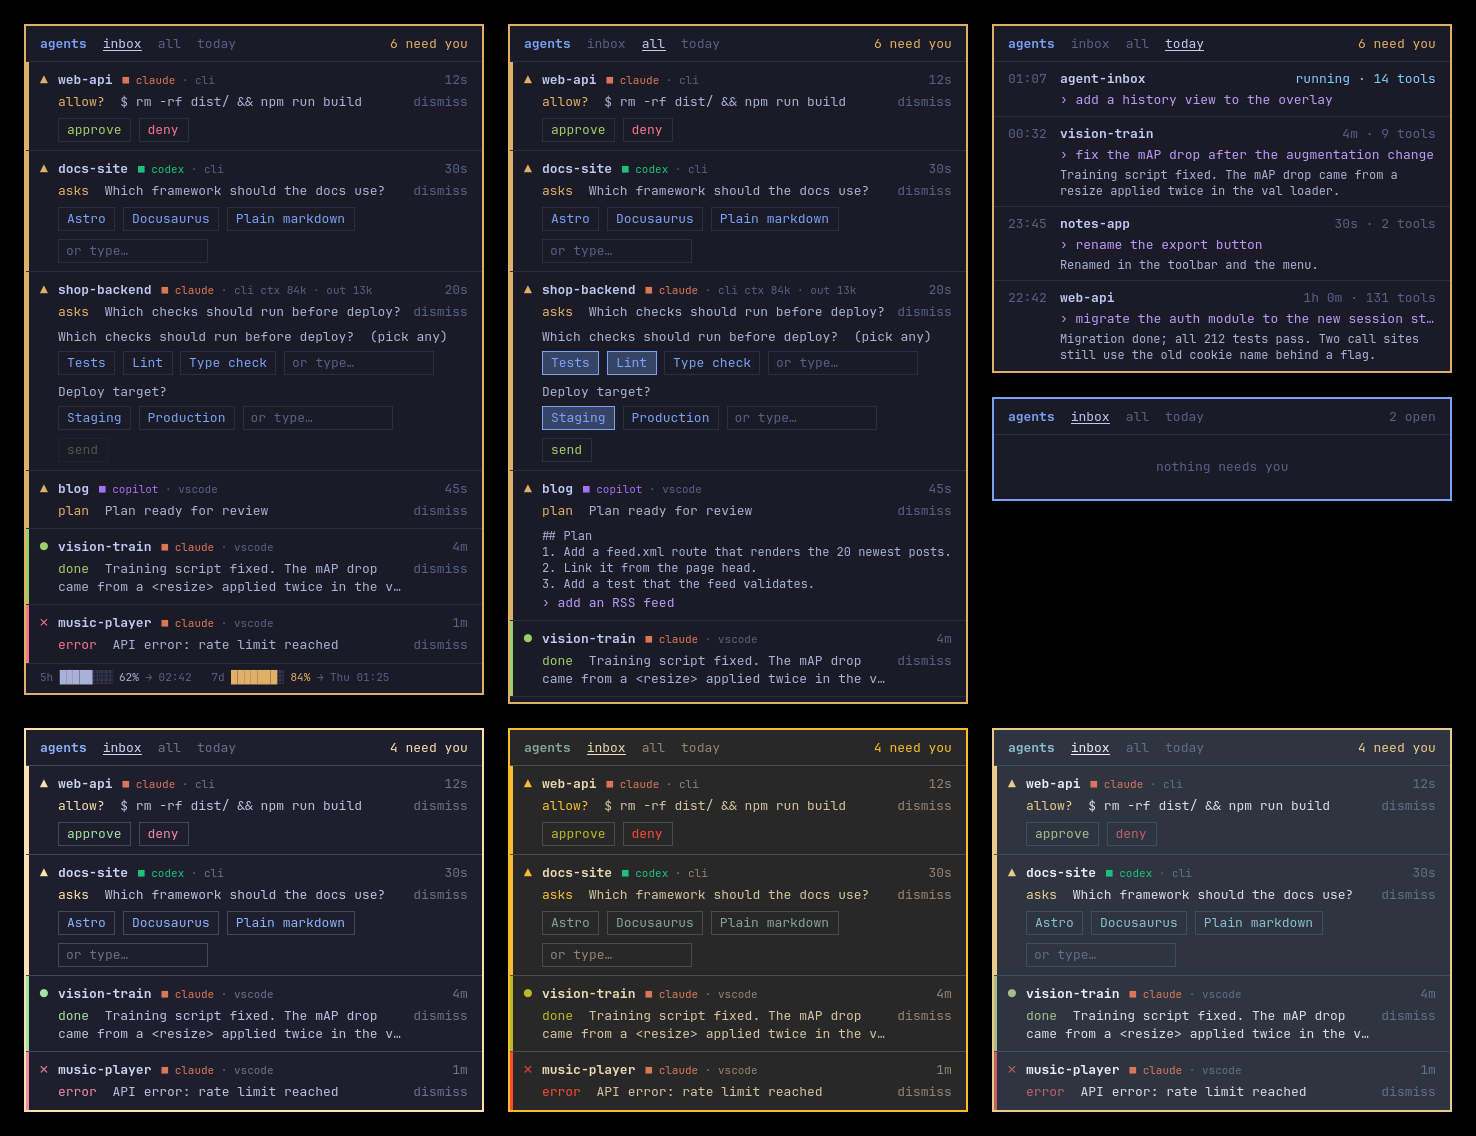
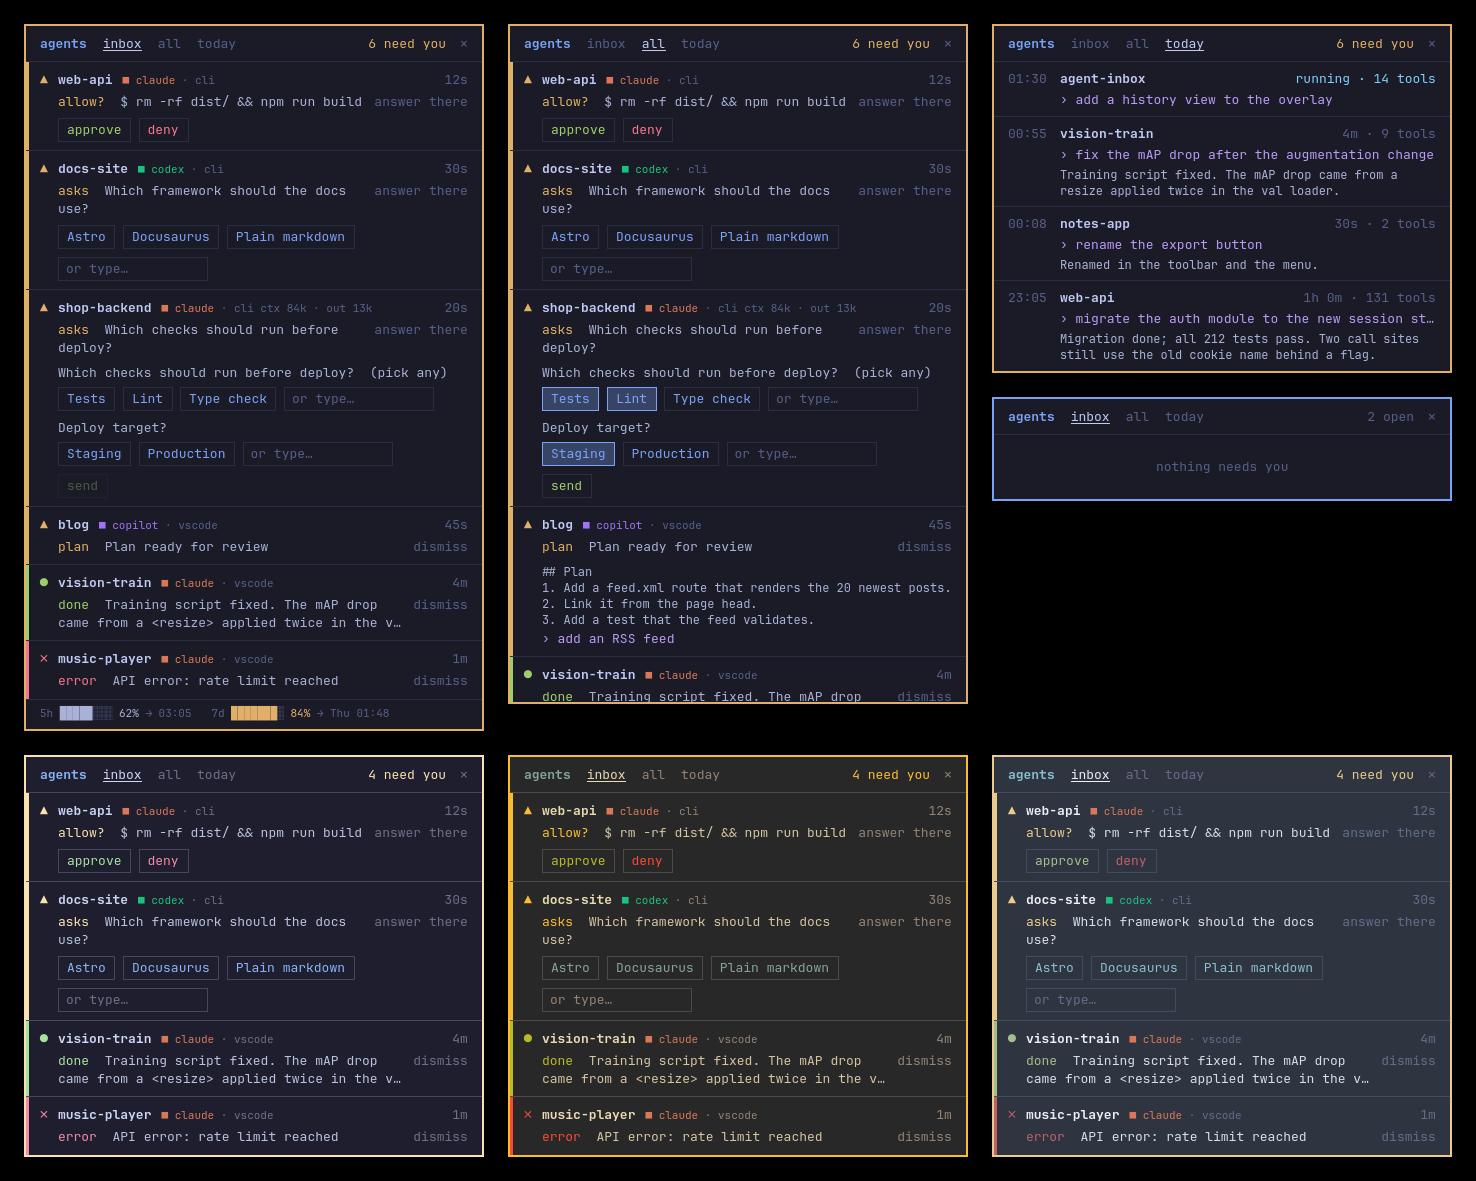
Close button in the overlay header

diff --git a/ui/Panel.qml b/ui/Panel.qml
@@ -235,8 +235,15 @@ Rectangle {
                     }
                 }
             }
-            Label {
+            Button {
+                id: closeButton
                 anchors.right: parent.right; anchors.rightMargin: 14
+                anchors.verticalCenter: parent.verticalCenter
+                text: "✕"; hot: panel.cRed
+                onClicked: panel.command("hide", "", "")   // hides the overlay; cards stay in the inbox
+            }
+            Label {
+                anchors.right: closeButton.left; anchors.rightMargin: 14
                 anchors.verticalCenter: parent.verticalCenter
                 text: panel.needing.length ? panel.needing.length + (panel.needing.length === 1 ? " needs you" : " need you")
                                            : panel.sessions.length + " open"

diff --git a/README.md b/README.md
@@ -72,7 +72,7 @@ The overlay stays hidden until something needs you, then appears in a corner of 
 | `done` | a long turn finished | dismiss, or just send the next prompt |
 | `error` | the turn failed | dismiss |
 
-Click a card to jump to that session's terminal window (KDE: also switches to the right Konsole tab; Hyprland and Sway are supported but untested). `more` (shown on hover) expands a card: the prompt you gave and the last few actions. `stop` (shown on hover) ends that session after a confirmation click. The `all` tab lists every open session, including the ones working quietly. The `today` tab is a history of today's turns.
+`✕` in the header hides the overlay until the next thing needs you; `dismiss` on a card clears that card. Click a card to jump to that session's terminal window (KDE: also switches to the right Konsole tab; Hyprland and Sway are supported but untested). `more` (shown on hover) expands a card: the prompt you gave and the last few actions. `stop` (shown on hover) ends that session after a confirmation click. The `all` tab lists every open session, including the ones working quietly. The `today` tab is a history of today's turns.
 
 To keep it quiet while you are already at the terminal, a permission prompt or question only pops the overlay up if it is still unanswered after 4 seconds, and "done" only counts for turns longer than 30 seconds. Both are configurable.
 
